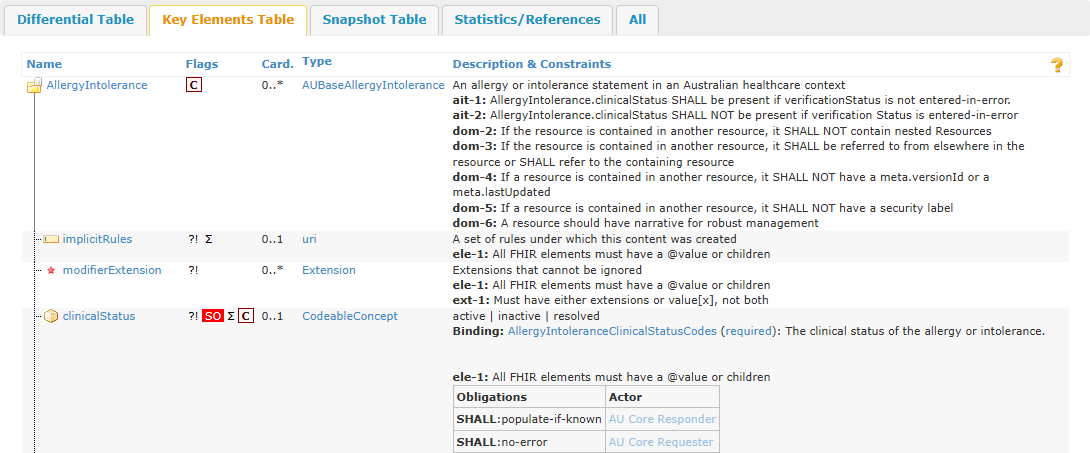
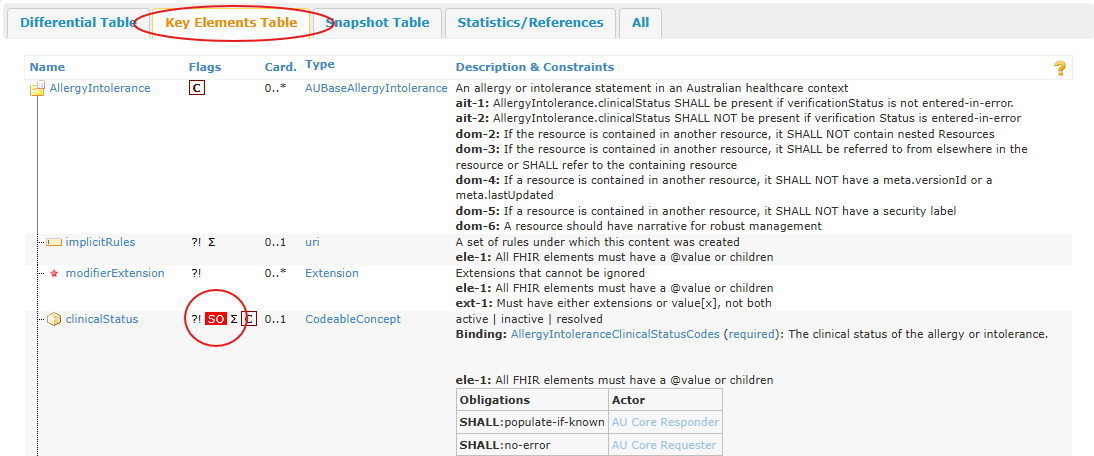
Fixes from review.

diff --git a/input/pagecontent/general-requirements.md b/input/pagecontent/general-requirements.md
@@ -89,9 +89,9 @@ How the system processes the resource depends on local requirements that could a
 
 When a *Must Support* element requires a more tightly stated obligation, this obligation is specified in the AU Core Requester [obligation extension](https://hl7.org/fhir/extensions/StructureDefinition-obligation.html) on the element definition.
 
-#### Presentation of Must Support and Obligation in profiles
+#### Presentation of Must Support and obligation in profiles
 
-All elements with *Must Support* in AU Core are accompanied by an explicit *Obligation* that identifies the expectations for one or more actors. When rendered in an implementation guide, each profile is presented in different formal views under tabs labelled "Differential Table", "Key Elements Table", and "Snapshot Table". The elements with *Must Support* and *Obligation* in these views are flagged with <span style="padding-left: 3px; padding-right: 3px; color: white; background-color: red" title="This element must be supported">S</span><span style="padding-left: 3px; padding-right: 3px; color: white; background-color: red" title="This element has obligations">O</span> as shown below. 
+All elements with *Must Support* in AU Core are accompanied by an explicit obligation that identifies the expectations for one or more actors. When rendered in an implementation guide, each profile is presented in different formal views under tabs labelled "Differential Table", "Key Elements Table", and "Snapshot Table". Elements flagged with *Must Support* and stated obligations in these views are represented by <span style="padding-left: 3px; padding-right: 3px; color: white; background-color: red" title="This element must be supported">S</span><span style="padding-left: 3px; padding-right: 3px; color: white; background-color: red" title="This element has obligations">O</span> as shown below. 
 
  <div> 
     <img src="allergyintolerance-keyelementstable.png" alt="AU Core AllergyIntolerance Key Elements Table" style="width:100%"/>
@@ -99,13 +99,13 @@ All elements with *Must Support* in AU Core are accompanied by an explicit *Obli
 *Figure 1: Key Elements Table View*
 <br/>
 
-Implementers should refer to the "Key Elements Table" to see the full set of elements that are mandatory or *Must Support* or with *Obligations*, and the full set of terminology requirements.  Implementers should note that the full set of constraints (i.e. invariants) are only presented in the "Detailed Descriptions" tab or the raw representation (e.g. XML or JSON) of the profile.
+Implementers should refer to the "Key Elements Table" to see the full set of elements that are mandatory or *Must Support* with obligations, and the full set of terminology requirements.  Implementers should note that the full set of constraints (i.e. invariants) are only presented in the "Detailed Descriptions" tab or the raw representation (e.g. XML or JSON) of the profile.
 
-##### Presentation of Must Support and Obligation in raw representations
+##### Presentation of Must Support and obligation in raw representations
 
-When viewing the raw representation (e.g. XML or JSON) of a profile, elements with *Must Support* are denoted by `mustSupport` set to "true", and *Obligations* are defined by the [Obligation Extension](https://hl7.org/fhir/extensions/StructureDefinition-obligation.html) as shown in the example below.
+When viewing the raw representation (e.g. XML or JSON) of a profile, elements with *Must Support* are denoted by `mustSupport` set to "true", and obligations are defined in the [Obligation Extension](https://hl7.org/fhir/extensions/StructureDefinition-obligation.html) as shown in the example below.
 
-Example: AU Core AllergyIntolerance profile with *Must Support* and *Obligation* on clinicalStatus.
+Example: AU Core AllergyIntolerance profile with *Must Support* and obligations on clinicalStatus.
 
 ~~~
 {
